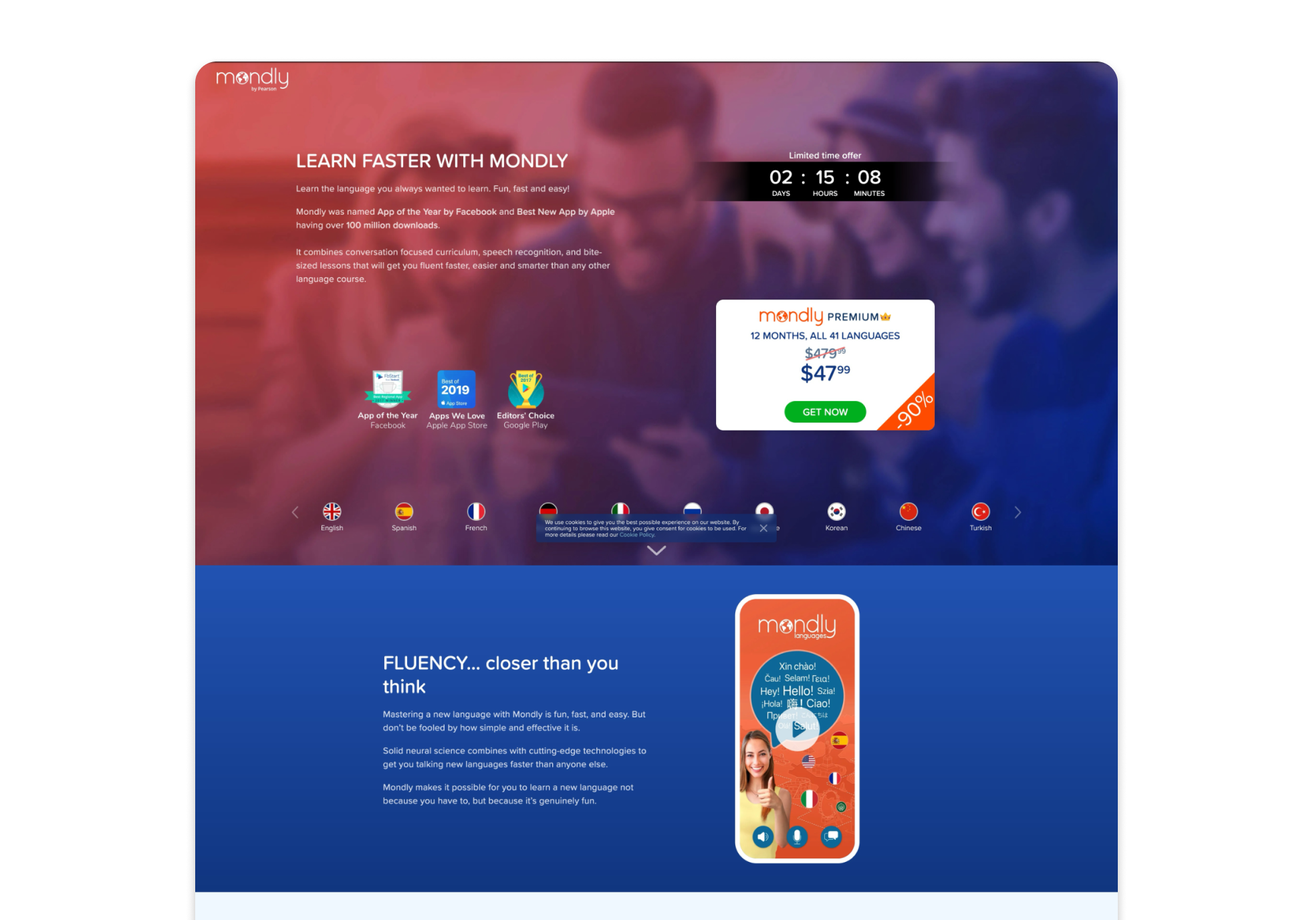
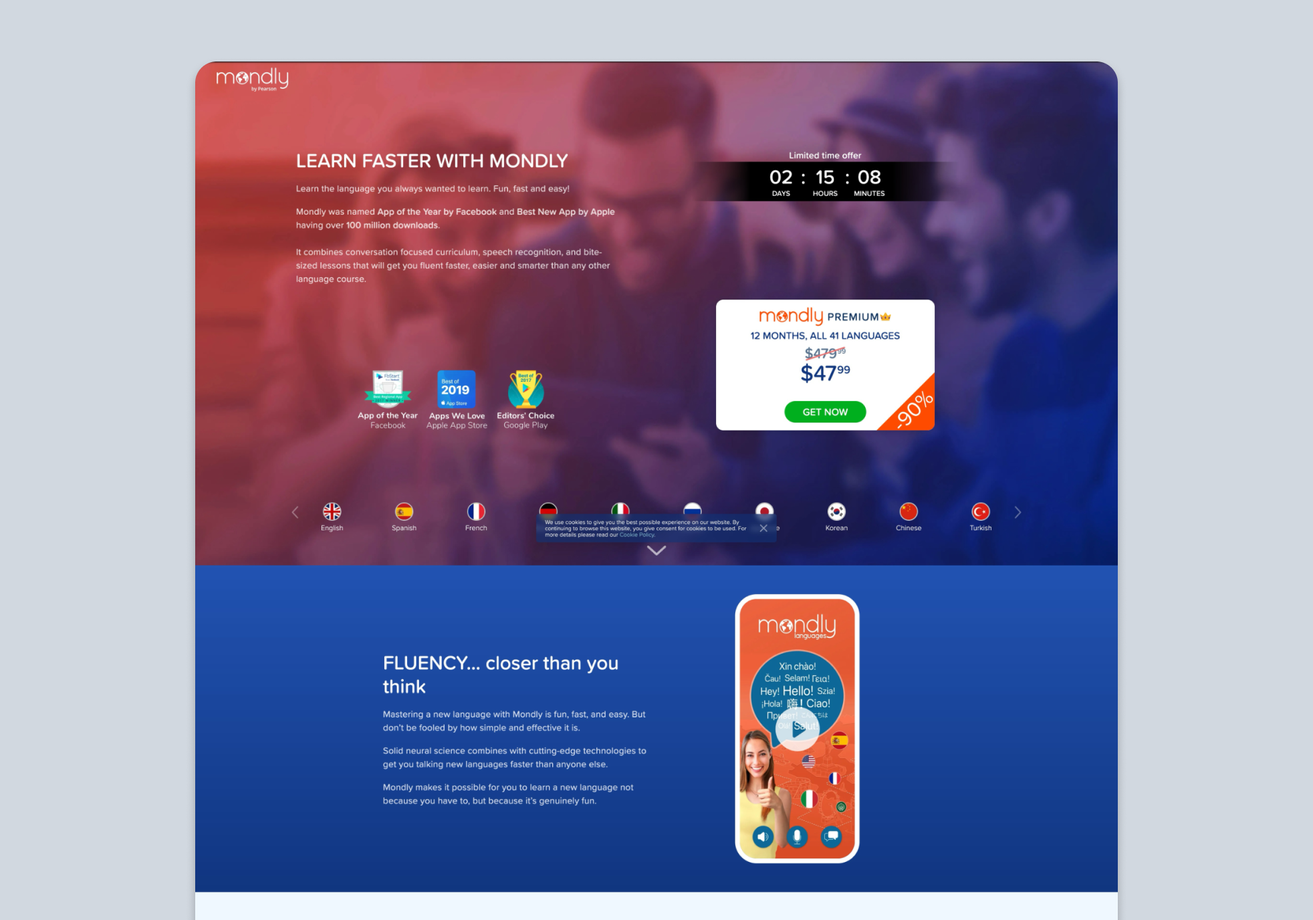
update: mondly's offer page old image

diff --git a/public/mondly/index.html b/public/mondly/index.html
@@ -1,6 +1,7 @@
 <!doctype html><html lang=en dir=auto><head><script src="/livereload.js?mindelay=10&amp;v=2&amp;port=1313&amp;path=livereload" data-no-instant defer></script><meta charset=utf-8><meta http-equiv=X-UA-Compatible content="IE=edge"><meta name=viewport content="width=device-width,initial-scale=1,shrink-to-fit=no"><meta name=robots content="noindex, nofollow"><title>Designing growth experiences at Mondly | Verónica De León Hernández</title>
-<meta name=keywords content><meta name=description content="Mondly · Product Design"><meta name=author content><link rel=canonical href=http://localhost:1313/mondly/><link crossorigin=anonymous href=/assets/css/stylesheet.min.d9706c3abb0c8b7093d5c9e81e9d33e073be81a658be85dcf7226c5775ab09d0.css integrity="sha256-2XBsOrsMi3CT1cnoHp0z4HO+gaZYvoXc9yJsV3WrCdA=" rel="preload stylesheet" as=style><link rel=icon href=http://localhost:1313/favicon.ico><link rel=apple-touch-icon href=http://localhost:1313/apple-touch-icon.png><link rel=alternate hreflang=en href=http://localhost:1313/mondly/><meta name=twitter:card content="summary_large_image"><meta name=twitter:title content="Designing growth experiences at Mondly | Verónica De León Hernández"><meta name=twitter:description content="Mondly · Product Design"><meta property="og:title" content="Designing growth experiences at Mondly | Verónica De León Hernández"><meta property="og:description" content="Mondly · Product Design"><meta property="og:type" content="article"><meta property="og:url" content="http://localhost:1313/mondly/"><meta property="og:image" content="http://localhost:1313/mondly/images/mondly-thumb.png"><meta property="article:section" content="projects"><script type=application/ld+json>{"@context":"https://schema.org","@type":"BreadcrumbList","itemListElement":[{"@type":"ListItem","position":1,"name":"Projects","item":"http://localhost:1313/projects/"},{"@type":"ListItem","position":2,"name":"Designing growth experiences at Mondly","item":"http://localhost:1313/mondly/"}]}</script><script type=application/ld+json>{"@context":"https://schema.org","@type":"BlogPosting","headline":"Designing growth experiences at Mondly | Verónica De León Hernández","name":"Designing growth experiences at Mondly","description":"Mondly · Product Design","keywords":[],"wordCount":"757","inLanguage":"en","image":"http://localhost:1313/mondly/images/mondly-thumb.png","datePublished":"0001-01-01T00:00:00Z","dateModified":"0001-01-01T00:00:00Z","mainEntityOfPage":{"@type":"WebPage","@id":"http://localhost:1313/mondly/"},"publisher":{"@type":"Organization","name":"Verónica De León Hernández","logo":{"@type":"ImageObject","url":"http://localhost:1313/favicon.ico"}}}</script><meta property="og:title" content="Designing growth experiences at Mondly | Online Portfolio"><meta property="og:description" content="I’m Verónica, a Multidisciplinary Product Designer with 7+ years of experience crafting intuitive, impactful experiences. I bring together design, code, and strategy to turn ideas into real, meaningful products — using tools like JavaScript, Python, and modern web tech."><meta property="og:type" content="website"><meta property="og:url" content="http://localhost:1313/mondly/"><meta property="og:image" content="http://localhost:1313/images/og-image.jpg"><link rel=preconnect href=https://fonts.googleapis.com><link rel=preconnect href=https://fonts.gstatic.com crossorigin><link href="https://fonts.googleapis.com/css2?family=IBM+Plex+Mono:ital,wght@0,100;0,200;0,300;0,400;0,500;0,600;0,700;1,100;1,200;1,300;1,400;1,500;1,600;1,700&family=IBM+Plex+Sans:ital,wght@0,100;0,200;0,300;0,400;0,500;0,600;0,700;1,100;1,200;1,300;1,400;1,500;1,600;1,700&display=swap" rel=stylesheet><noscript><style>#theme-toggle,.top-link{display:none}</style><style>@media(prefers-color-scheme:dark){:root{--theme:rgb(29, 30, 32);--entry:rgb(46, 46, 51);--primary:rgb(218, 218, 219);--secondary:rgb(155, 156, 157);--tertiary-bg:rgb(65, 66, 68);--content:rgb(196, 196, 197);--code-bg:rgb(55, 56, 62);--border:rgb(51, 51, 51)}.list-page{background:var(--theme)}.list-page:not(.dark)::-webkit-scrollbar-track{background:0 0}.list-page:not(.dark)::-webkit-scrollbar-thumb{border-color:var(--theme)}}</style></noscript><script async src="https://www.googletagmanager.com/gtag/js?id=G-LQZ77WLF6C"></script><script>var dnt,doNotTrack=!1;if(!1&&(dnt=navigator.doNotTrack||window.doNotTrack||navigator.msDoNotTrack,doNotTrack=dnt=="1"||dnt=="yes"),!doNotTrack){window.dataLayer=window.dataLayer||[];function gtag(){dataLayer.push(arguments)}gtag("js",new Date),gtag("config","G-LQZ77WLF6C")}</script></head><body class="type-projects kind-page layout-mondly" id=" top"><script data-no-instant>function switchTheme(e){switch(e){case"light":document.body.classList.remove("dark");break;case"dark":document.body.classList.add("dark");break;default:window.matchMedia("(prefers-color-scheme: dark)").matches&&document.body.classList.add("dark")}}function isDarkTheme(){return document.body.className.includes("dark")}function getPrefTheme(){return localStorage.getItem("pref-theme")}function setPrefTheme(e){switchTheme(e),localStorage.setItem("pref-theme",e)}const toggleThemeCallbacks={};toggleThemeCallbacks.main=e=>{setPrefTheme(e?"light":"dark")},window.addEventListener("toggle-theme",function(){const e=isDarkTheme();for(const t in toggleThemeCallbacks)toggleThemeCallbacks[t](e)});function toggleThemeListener(){window.dispatchEvent(new CustomEvent("toggle-theme"))}</script><script>(function(){const t="light",e=getPrefTheme(),n=e||t;switchTheme(n)})()</script><header class=header><nav class=nav><div class=logo><a href=http://localhost:1313/ accesskey=h title="Verónica De León Hernández (Alt + H)">Verónica De León Hernández</a>
-<span class=logo-switches></span></div><ul id=menu><li><a href=http://localhost:1313/ title=Work>Work</a></li><li><a href=http://localhost:1313/about/ title=About>About</a></li><li><a href=https://www.linkedin.com/in/veronicadeleonh/ title=Contact>Contact</a></li></ul></nav></header><main class="main post"><article class=post-single><header class=post-header><h1 class=post-title>Designing growth experiences at Mondly</h1><div class=post-meta></div></header><div class="toc side right"><details open><summary accesskey=c title="(Alt + C)"><span class=details>Table of Contents</span></summary><div class=inner><ul><li><a href=#about-mondly aria-label="About Mondly">About Mondly</a></li><li><a href=#my-role-at-mondly aria-label="My Role at Mondly">My Role at Mondly</a></li><li><a href=#mondly-web--marketing aria-label="Mondly Web & Marketing">Mondly Web & Marketing</a><ul><li><a href=#redesigned-offer-page aria-label="Redesigned Offer page">Redesigned Offer page</a></li><li><a href=#app-store--google-play-images aria-label="App Store & Google Play images">App Store & Google Play images</a></li></ul></li><li><a href=#mondly-growth--monetization aria-label="Mondly Growth & Monetization">Mondly Growth & Monetization</a><ul><li><a href=#seasonal-campaigns aria-label="Seasonal Campaigns">Seasonal Campaigns</a></li></ul></li><li><a href=#marketing-campaigns aria-label="Marketing Campaigns">Marketing Campaigns</a></li></ul></div></details></div><div class=post-content><div class=intro-info><p><span class="tag blue text-blue">e-learning</span></p><p class=intro-description>My role at Mondly involved a variety of tasks, collaborating closely with designers, marketers, User Acquisition and Growth specialists, website developers, and data scientists to consolidate Mondly's rebrand across all touchpoints.</p><div class=intro-details-wrapper><p class="intro-details no-margin-bottom"><span class=fi style=background-image:url(/images/mouse.svg)></span> Senior Product Designer</p><p class="intro-details no-margin-bottom"><span class=fi style=background-image:url(/images/globe.svg)></span> Fully remote</p><p class="intro-details no-margin-bottom"><span class=fi style=background-image:url(/images/calendar.svg)></span> 2023 - 2024</p></div></div><p><img loading=lazy src=/mondly/images/mondly-intro.png type alt=Mondly></p><h3 id=about-mondly>About Mondly<a hidden class=anchor aria-hidden=true href=#about-mondly>¶</a></h3><p><strong>Mondly</strong> is a language learning app that aims to make language learning fun and easy through technological innovation and multiple language combinations.</p><p>On 2022 Mondly got acquired by Pearson, giving the Product team a chance for a big redesign of Mondly&rsquo;s platform and web presence.</p><h3 id=my-role-at-mondly>My Role at Mondly<a hidden class=anchor aria-hidden=true href=#my-role-at-mondly>¶</a></h3><p>During my stay at Mondly, making <strong>A/B tests</strong> about the performance of the Old vs. the New Design was important to validate with data the development of the rebrand and plan the marketing strategies for this design transition.</p><p>Before I joined the team, the product designers put in place a detailed <strong>design system</strong> that served as base for all the future assets we developed on the way. I collaborated closely with one of my colleagues on the creation of a <strong>style guide</strong> in Notion, were we documented the details of the New Mondly Brand and its usage.</p><a href=images/styleguide-components.png class=lightbox><img src=images/styleguide-components.png alt="Mondly Style Guide Components"></a><p class=photo-footnote>View of some of the components built for the Styleguide in Figma</p><h3 id=mondly-web--marketing>Mondly Web & Marketing<a hidden class=anchor aria-hidden=true href=#mondly-web--marketing>¶</a></h3><p>With a major rebranding underway, we created brand guidelines based on our design system that we could extend into marketing materials. We conducted a series of <strong>A/B tests</strong> to compare the performance of the <strong>new design versus the old one</strong>, ensuring a positive impact on user engagement.</p><h4 id=redesigned-offer-page>Redesigned Offer page<a hidden class=anchor aria-hidden=true href=#redesigned-offer-page>¶</a></h4><p>For this project, we adapted the app’s design system for use on a marketing landing page for the first time. This laid the foundation for a <strong>scalable design system</strong> tailored to <strong>web marketing materials</strong>, evolving with the team’s needs. It also enabled us to expand the style guide specifically for marketing designers, who would use it in areas such as social media campaign ideation.</p><a href=images/mondly-offer-page.png class=lightbox><img src=images/mondly-offer-page.png alt="Mondly Offer Page"></a><p class=photo-footnote>Preview of the Offer Page redesign on iPad mini and iPhone SE</p><div class="box-notes yellow-background yellow-border" style=margin-bottom:var(--space-4)>The redesigned Offer page resulted in an increase in <strong>average time on page</strong> and a lower <strong>bounce rate</strong> compared to the original control version.</div><h4 id=app-store--google-play-images>App Store & Google Play images<a hidden class=anchor aria-hidden=true href=#app-store--google-play-images>¶</a></h4><p>In order to test the impact of the rebranding on the Stores, we initiated a project to extend the new brand to these images. The light mode was introduced after benchmarking research showed competitors favoring light backgrounds in their App Store images. We organized several <strong>Design Team workshops</strong> to develop a light version of our new brand, allowing us to include it in the <strong>A/B testing.</strong></p><a href=images/app-store-images-dark.png class=lightbox><img src=images/app-store-images-dark.png alt="Mondly App Store Images Dark Theme">
+<meta name=keywords content><meta name=description content="Mondly · Product Design"><meta name=author content><link rel=canonical href=http://localhost:1313/mondly/><link crossorigin=anonymous href=/assets/css/stylesheet.min.d9706c3abb0c8b7093d5c9e81e9d33e073be81a658be85dcf7226c5775ab09d0.css integrity="sha256-2XBsOrsMi3CT1cnoHp0z4HO+gaZYvoXc9yJsV3WrCdA=" rel="preload stylesheet" as=style><link rel=icon href=http://localhost:1313/favicon.ico><link rel=apple-touch-icon href=http://localhost:1313/apple-touch-icon.png><link rel=alternate hreflang=en href=http://localhost:1313/mondly/><meta name=twitter:card content="summary_large_image"><meta name=twitter:title content="Designing growth experiences at Mondly | Verónica De León Hernández"><meta name=twitter:description content="Mondly · Product Design"><meta property="og:title" content="Designing growth experiences at Mondly | Verónica De León Hernández"><meta property="og:description" content="Mondly · Product Design"><meta property="og:type" content="article"><meta property="og:url" content="http://localhost:1313/mondly/"><meta property="og:image" content="http://localhost:1313/mondly/images/mondly-thumb.png"><meta property="article:section" content="projects"><script type=application/ld+json>{"@context":"https://schema.org","@type":"BreadcrumbList","itemListElement":[{"@type":"ListItem","position":1,"name":"Projects","item":"http://localhost:1313/projects/"},{"@type":"ListItem","position":2,"name":"Designing growth experiences at Mondly","item":"http://localhost:1313/mondly/"}]}</script><script type=application/ld+json>{"@context":"https://schema.org","@type":"BlogPosting","headline":"Designing growth experiences at Mondly | Verónica De León Hernández","name":"Designing growth experiences at Mondly","description":"Mondly · Product Design","keywords":[],"wordCount":"763","inLanguage":"en","image":"http://localhost:1313/mondly/images/mondly-thumb.png","datePublished":"0001-01-01T00:00:00Z","dateModified":"0001-01-01T00:00:00Z","mainEntityOfPage":{"@type":"WebPage","@id":"http://localhost:1313/mondly/"},"publisher":{"@type":"Organization","name":"Verónica De León Hernández","logo":{"@type":"ImageObject","url":"http://localhost:1313/favicon.ico"}}}</script><meta property="og:title" content="Designing growth experiences at Mondly | Online Portfolio"><meta property="og:description" content="I’m Verónica, a Multidisciplinary Product Designer with 7+ years of experience crafting intuitive, impactful experiences. I bring together design, code, and strategy to turn ideas into real, meaningful products — using tools like JavaScript, Python, and modern web tech."><meta property="og:type" content="website"><meta property="og:url" content="http://localhost:1313/mondly/"><meta property="og:image" content="http://localhost:1313/images/og-image.jpg"><link rel=preconnect href=https://fonts.googleapis.com><link rel=preconnect href=https://fonts.gstatic.com crossorigin><link href="https://fonts.googleapis.com/css2?family=IBM+Plex+Mono:ital,wght@0,100;0,200;0,300;0,400;0,500;0,600;0,700;1,100;1,200;1,300;1,400;1,500;1,600;1,700&family=IBM+Plex+Sans:ital,wght@0,100;0,200;0,300;0,400;0,500;0,600;0,700;1,100;1,200;1,300;1,400;1,500;1,600;1,700&display=swap" rel=stylesheet><noscript><style>#theme-toggle,.top-link{display:none}</style><style>@media(prefers-color-scheme:dark){:root{--theme:rgb(29, 30, 32);--entry:rgb(46, 46, 51);--primary:rgb(218, 218, 219);--secondary:rgb(155, 156, 157);--tertiary-bg:rgb(65, 66, 68);--content:rgb(196, 196, 197);--code-bg:rgb(55, 56, 62);--border:rgb(51, 51, 51)}.list-page{background:var(--theme)}.list-page:not(.dark)::-webkit-scrollbar-track{background:0 0}.list-page:not(.dark)::-webkit-scrollbar-thumb{border-color:var(--theme)}}</style></noscript><script async src="https://www.googletagmanager.com/gtag/js?id=G-LQZ77WLF6C"></script><script>var dnt,doNotTrack=!1;if(!1&&(dnt=navigator.doNotTrack||window.doNotTrack||navigator.msDoNotTrack,doNotTrack=dnt=="1"||dnt=="yes"),!doNotTrack){window.dataLayer=window.dataLayer||[];function gtag(){dataLayer.push(arguments)}gtag("js",new Date),gtag("config","G-LQZ77WLF6C")}</script></head><body class="type-projects kind-page layout-mondly" id=" top"><script data-no-instant>function switchTheme(e){switch(e){case"light":document.body.classList.remove("dark");break;case"dark":document.body.classList.add("dark");break;default:window.matchMedia("(prefers-color-scheme: dark)").matches&&document.body.classList.add("dark")}}function isDarkTheme(){return document.body.className.includes("dark")}function getPrefTheme(){return localStorage.getItem("pref-theme")}function setPrefTheme(e){switchTheme(e),localStorage.setItem("pref-theme",e)}const toggleThemeCallbacks={};toggleThemeCallbacks.main=e=>{setPrefTheme(e?"light":"dark")},window.addEventListener("toggle-theme",function(){const e=isDarkTheme();for(const t in toggleThemeCallbacks)toggleThemeCallbacks[t](e)});function toggleThemeListener(){window.dispatchEvent(new CustomEvent("toggle-theme"))}</script><script>(function(){const t="light",e=getPrefTheme(),n=e||t;switchTheme(n)})()</script><header class=header><nav class=nav><div class=logo><a href=http://localhost:1313/ accesskey=h title="Verónica De León Hernández (Alt + H)">Verónica De León Hernández</a>
+<span class=logo-switches></span></div><ul id=menu><li><a href=http://localhost:1313/ title=Work>Work</a></li><li><a href=http://localhost:1313/about/ title=About>About</a></li><li><a href=https://www.linkedin.com/in/veronicadeleonh/ title=Contact>Contact</a></li></ul></nav></header><main class="main post"><article class=post-single><header class=post-header><h1 class=post-title>Designing growth experiences at Mondly</h1><div class=post-meta></div></header><div class="toc side right"><details open><summary accesskey=c title="(Alt + C)"><span class=details>Table of Contents</span></summary><div class=inner><ul><li><a href=#about-mondly aria-label="About Mondly">About Mondly</a></li><li><a href=#my-role-at-mondly aria-label="My Role at Mondly">My Role at Mondly</a></li><li><a href=#mondly-web--marketing aria-label="Mondly Web & Marketing">Mondly Web & Marketing</a><ul><li><a href=#redesigned-offer-page aria-label="Redesigned Offer page">Redesigned Offer page</a></li><li><a href=#app-store--google-play-images aria-label="App Store & Google Play images">App Store & Google Play images</a></li></ul></li><li><a href=#mondly-growth--monetization aria-label="Mondly Growth & Monetization">Mondly Growth & Monetization</a><ul><li><a href=#seasonal-campaigns aria-label="Seasonal Campaigns">Seasonal Campaigns</a></li></ul></li><li><a href=#marketing-campaigns aria-label="Marketing Campaigns">Marketing Campaigns</a></li></ul></div></details></div><div class=post-content><div class=intro-info><p><span class="tag blue text-blue">e-learning</span></p><p class=intro-description>My role at Mondly involved a variety of tasks, collaborating closely with designers, marketers, User Acquisition and Growth specialists, website developers, and data scientists to consolidate Mondly's rebrand across all touchpoints.</p><div class=intro-details-wrapper><p class="intro-details no-margin-bottom"><span class=fi style=background-image:url(/images/mouse.svg)></span> Senior Product Designer</p><p class="intro-details no-margin-bottom"><span class=fi style=background-image:url(/images/globe.svg)></span> Fully remote</p><p class="intro-details no-margin-bottom"><span class=fi style=background-image:url(/images/calendar.svg)></span> 2023 - 2024</p></div></div><p><img loading=lazy src=/mondly/images/mondly-intro.png type alt=Mondly></p><h3 id=about-mondly>About Mondly<a hidden class=anchor aria-hidden=true href=#about-mondly>¶</a></h3><p><strong>Mondly</strong> is a language learning app that aims to make language learning fun and easy through technological innovation and multiple language combinations.</p><p>On 2022 Mondly got acquired by Pearson, giving the Product team a chance for a big redesign of Mondly&rsquo;s platform and web presence.</p><h3 id=my-role-at-mondly>My Role at Mondly<a hidden class=anchor aria-hidden=true href=#my-role-at-mondly>¶</a></h3><p>During my stay at Mondly, making <strong>A/B tests</strong> about the performance of the Old vs. the New Design was important to validate with data the development of the rebrand and plan the marketing strategies for this design transition.</p><p>Before I joined the team, the product designers put in place a detailed <strong>design system</strong> that served as base for all the future assets we developed on the way. I collaborated closely with one of my colleagues on the creation of a <strong>style guide</strong> in Notion, were we documented the details of the New Mondly Brand and its usage.</p><a href=images/styleguide-components.png class=lightbox><img src=images/styleguide-components.png alt="Mondly Style Guide Components"></a><p class=photo-footnote>View of some of the components built for the Styleguide in Figma</p><h3 id=mondly-web--marketing>Mondly Web & Marketing<a hidden class=anchor aria-hidden=true href=#mondly-web--marketing>¶</a></h3><p>With a major rebranding underway, we created brand guidelines based on our design system that we could extend into marketing materials. We conducted a series of <strong>A/B tests</strong> to compare the performance of the <strong>new design versus the old one</strong>, ensuring a positive impact on user engagement.</p><h4 id=redesigned-offer-page>Redesigned Offer page<a hidden class=anchor aria-hidden=true href=#redesigned-offer-page>¶</a></h4><p>For this project, we adapted the app’s design system for use on a marketing landing page for the first time. This laid the foundation for a <strong>scalable design system</strong> tailored to <strong>web marketing materials</strong>, evolving with the team’s needs. It also enabled us to expand the style guide specifically for marketing designers, who would use it in areas such as social media campaign ideation.</p><a href=images/mondly-offer-page-old.png class=lightbox><img src=images/mondly-offer-page-old.png alt="Mondly Offer Page">
+</a><a href=images/mondly-offer-page.png class=lightbox><img src=images/mondly-offer-page.png alt="Mondly Offer Page"></a><p class=photo-footnote>Top: Mondly's old Offer page design.</br>Bottom: Preview of the Offer Page redesign on iPad mini and iPhone SE</p><div class="box-notes yellow-background yellow-border" style=margin-bottom:var(--space-4)>The redesigned Offer page resulted in an increase in <strong>average time on page</strong> and a lower <strong>bounce rate</strong> compared to the original control version.</div><h4 id=app-store--google-play-images>App Store & Google Play images<a hidden class=anchor aria-hidden=true href=#app-store--google-play-images>¶</a></h4><p>In order to test the impact of the rebranding on the Stores, we initiated a project to extend the new brand to these images. The light mode was introduced after benchmarking research showed competitors favoring light backgrounds in their App Store images. We organized several <strong>Design Team workshops</strong> to develop a light version of our new brand, allowing us to include it in the <strong>A/B testing.</strong></p><a href=images/app-store-images-dark.png class=lightbox><img src=images/app-store-images-dark.png alt="Mondly App Store Images Dark Theme">
 </a><a href=images/app-store-images-light.png class=lightbox><img src=images/app-store-images-light.png alt="Mondly App Strore Images Light Theme"></a><p class=photo-footnote>Screenshots of the dark and light versions of the App Store images for iPhone X</p><div class="box-notes yellow-background yellow-border" style=margin-bottom:var(--space-4)>Data showed a <strong>nearly 3% increase in App Store downloads</strong> with <strong>Mondly's Light theme</strong> version compared to the control and dark theme variants. With this percentage we met our OKRs for Q1 2024</div><h3 id=mondly-growth--monetization>Mondly Growth & Monetization<a hidden class=anchor aria-hidden=true href=#mondly-growth--monetization>¶</a></h3><p>The Growth team initiated several <strong>A/B tests</strong> to <strong>increase Premium Subscriptions</strong>. We tested various strategies, including designing new banners, creating templates for seasonal campaigns, and making UX improvements to the Free Trial screen.</p><a href=images/mondly-lto.png class=lightbox><img src=images/mondly-lto.png alt="Mondly LTO"></a><p class=photo-footnote>Preview of the Limited Time Offer Banner variants for testing</p><h4 id=seasonal-campaigns>Seasonal Campaigns<a hidden class=anchor aria-hidden=true href=#seasonal-campaigns>¶</a></h4><p>Our user acquisition strategy used full-screen in-app ads to guide Free Trial users to the Subscription screen, offering them the opportunity to <strong>activate a Premium account</strong>.</p><a href=images/seasonal-campaigns-user-flow.png class=lightbox><img src=images/seasonal-campaigns-user-flow.png alt="Mondly User Flow Seasonal Campaign"></a><p class=photo-footnote>User conversion through in-app ads flow</p><p>Our strategy used a default ad layout for all free users, which we then <strong>customized for each seasonal sale</strong>. This approach allowed us to create a flexible template, easily adapting key elements like colors and imagery to fit the seasonal theme.</p><a href=images/seasonal-campaigns-old.png class=lightbox><img src=images/seasonal-campaigns-old.png alt="Mondly Seasonal Campaign - Old Design"></a><p class=photo-footnote>Old in-app ad layout used for the seasonal campaigns. 3D icons were generated by an external partner</p><a href=images/seasonal-campaigns-redesign.png class=lightbox><img src=images/seasonal-campaigns-redesign.png alt="Mondly Seasonal Campaign"></a><p class=photo-footnote>In-app ad layout created for the Spring Campaign. Images generated with Midjourney</p><p>For the <strong>Spring Campaign 2024</strong>, we developed a new layout for the in-app ad and proposed two different background images. We launched both variants and conducted an <strong>A/B/C test</strong> alongside the current fallback.</p><a href=images/seasonal-campaigns-test-result.png class=lightbox><img src=images/seasonal-campaigns-test-result.png alt="Mondly Seasonal Campaign Results"></a><div class="box-notes yellow-background yellow-border" style=margin-bottom:var(--space-4)>Results showed a slight increase of <strong>7% more 'Activate' taps</strong> with <strong>variant B performing better</strong>. Nearly <strong>2% of users</strong> who reached the Subscription screen proceeded with the<strong> App Store Drawer,</strong> moving further down the conversion funnel.</div><h3 id=marketing-campaigns>Marketing Campaigns<a hidden class=anchor aria-hidden=true href=#marketing-campaigns>¶</a></h3><p>One major ongoing marketing campaign involved creating an onboarding flow with a questionnaire that guided users to a payment screen. I was responsible for the design and UX of this flow. The biggest challenge was developing a style that seamlessly blended elements of both the old and new Mondly branding.</p><a href=images/w2w-screens.png class=lightbox><img src=images/w2w-screens.png alt="Mondly W2W Screens">
 </a><a href=images/w2w-components.png class=lightbox><img src=images/w2w-components.png alt="Mondly W2W Screens"></a><p class=photo-footnote>Figma screenshot from the W2W campaing mockups and components in Figma</p></div><footer class=post-footer><nav class=paginav><a class=prev href=http://localhost:1313/skoove/><span class=title><svg width="24" height="24" viewBox="0 0 24 24" fill="none" stroke="currentcolor" stroke-width="2" stroke-linecap="round" stroke-linejoin="round" class="feather feather-arrow-left" style="user-select:text"><line x1="19" y1="12" x2="5" y2="12" style="user-select:text"/><polyline points="12 19 5 12 12 5" style="user-select:text"/></svg>&nbsp;
 Prev Project</span><br><span>From Help Center article to decision-making experience</span>

diff --git a/content/projects/mondly/index.md b/content/projects/mondly/index.md
@@ -58,11 +58,15 @@ With a major rebranding underway, we created brand guidelines based on our desig
 
 For this project, we adapted the app’s design system for use on a marketing landing page for the first time. This laid the foundation for a **scalable design system** tailored to **web marketing materials**, evolving with the team’s needs. It also enabled us to expand the style guide specifically for marketing designers, who would use it in areas such as social media campaign ideation.
 
+<a href="images/mondly-offer-page-old.png" class="lightbox">
+  <img src="images/mondly-offer-page-old.png" alt="Mondly Offer Page">
+</a>
+
 <a href="images/mondly-offer-page.png" class="lightbox">
   <img src="images/mondly-offer-page.png" alt="Mondly Offer Page">
 </a>
 
-<p class="photo-footnote">Preview of the Offer Page redesign on iPad mini and iPhone SE</p>
+<p class="photo-footnote">Top: Mondly's old Offer page design.</br>Bottom: Preview of the Offer Page redesign on iPad mini and iPhone SE</p>
 
 <div class="box-notes yellow-background yellow-border" style="margin-bottom: var(--space-4)">
  The redesigned Offer page resulted in an increase in <strong>average time on page</strong> and a lower <strong>bounce rate</strong> compared to the original control version.</div>
